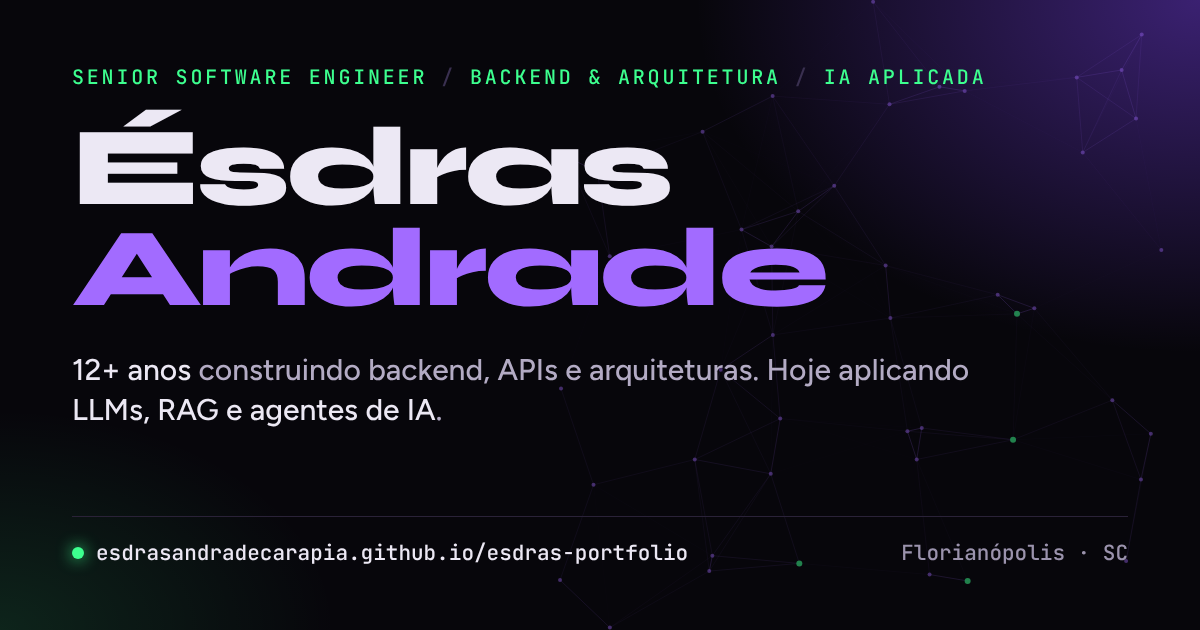
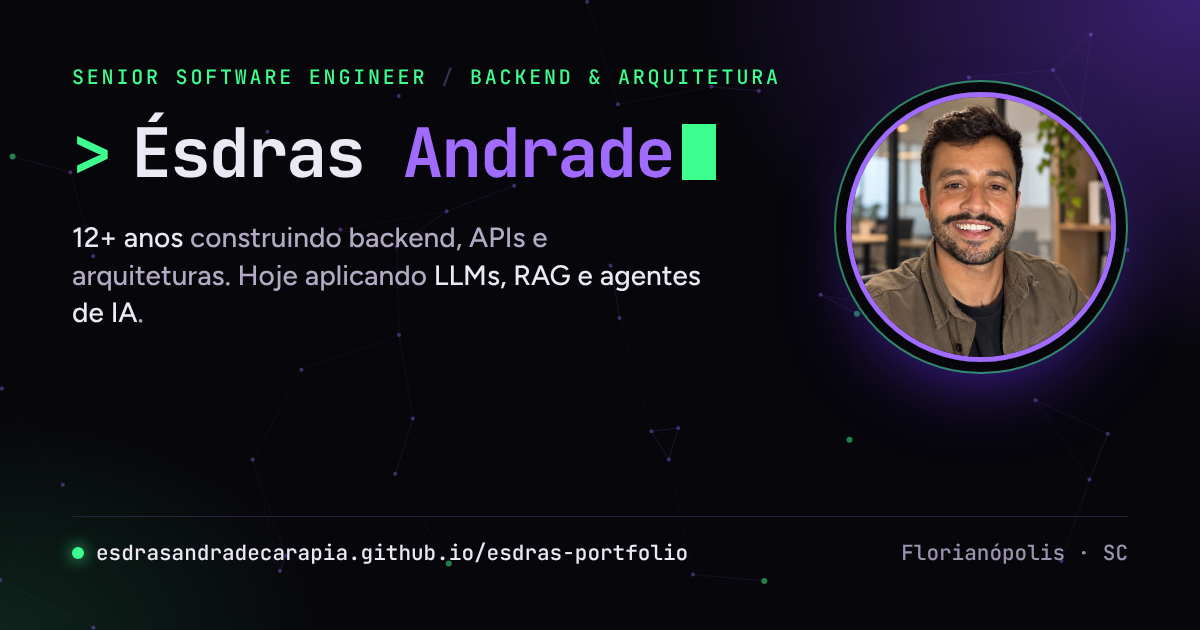
update-head-line-info-add-photo-profile

Changed region(s): [[0.0617, 0.0905, 0.9558, 0.6635], [0.0617, 0.1508, 0.6167, 0.3317], [0.0617, 0.6333, 0.37, 0.6937]]

diff --git a/index.html b/index.html
@@ -8,6 +8,10 @@
   <meta name="theme-color" content="#07060b">
 
   <!-- Open Graph: prévia do link no LinkedIn e WhatsApp -->
+  <meta property="og:type" content="website">
+  <meta property="og:title" content="Ésdras Andrade · Senior Software Engineer">
+  <meta property="og:description" content="Backend, APIs e arquitetura que aguentam produção, aplicando IA com LLMs, RAG e agentes.">
+  <meta property="og:locale" content="pt_BR">
   <meta property="og:url" content="https://esdrasandradecarapia.github.io/esdras-portfolio/">
   <meta property="og:image" content="https://esdrasandradecarapia.github.io/esdras-portfolio/assets/img/og-image.png">
   <meta property="og:image:width" content="1200">
@@ -18,7 +22,7 @@
   <link rel="icon" href="assets/img/favicon.svg" type="image/svg+xml">
   <link rel="preconnect" href="https://fonts.googleapis.com">
   <link rel="preconnect" href="https://fonts.gstatic.com" crossorigin>
-  <link rel="stylesheet" href="https://fonts.googleapis.com/css2?family=Syne:wght@500;700;800&family=Figtree:wght@400;500;600&family=JetBrains+Mono:wght@400;500&display=swap">
+  <link rel="stylesheet" href="https://fonts.googleapis.com/css2?family=Syne:wght@500;700;800&family=Figtree:wght@400;500;600&family=JetBrains+Mono:wght@400;500;700&display=swap">
   <link rel="stylesheet" href="assets/css/styles.css">
 
   <script src="assets/js/config.js" defer></script>
@@ -47,44 +51,33 @@
 <main class="wrap" id="topo">
 
   <header class="hero">
-    <div class="hero-title">
-      <div class="eyebrow"><span>Senior Software Engineer</span><span>Backend &amp; Arquitetura</span><span>IA aplicada</span></div>
-      <h1>Ésdras<span class="last">Andrade</span></h1>
-    </div>
+    <figure class="avatar">
+      <picture>
+        <source srcset="assets/img/esdras.webp" type="image/webp">
+        <img src="assets/img/esdras.jpg" alt="Foto de Ésdras Andrade" width="640" height="800" fetchpriority="high">
+      </picture>
+    </figure>
     <div class="hero-copy">
-      <p class="lead">Engenheiro de software com <strong>mais de 12 anos construindo backend, APIs e arquiteturas</strong> que aguentam produção, com experiência liderando times técnicos. Hoje aplico essa base em <strong>sistemas com LLMs, RAG e agentes de IA</strong>.</p>
+      <p class="role">Senior Software Engineer · Backend &amp; IA</p>
+      <h1><span class="prompt" aria-hidden="true">&gt;</span>Ésdras <span class="last">Andrade</span><span class="caret" aria-hidden="true"></span></h1>
+      <p class="lead">Mais de 12 anos construindo <strong>backend, APIs e arquiteturas</strong>. Hoje aplicando <strong>LLMs, RAG e agentes de IA</strong>.</p>
       <div class="cta">
         <a class="btn primary js-wa" href="#" target="_blank" rel="noopener">
           <svg viewBox="0 0 24 24" fill="currentColor" aria-hidden="true"><path d="M17.5 14.4c-.3-.1-1.7-.8-2-.9-.3-.1-.5-.1-.7.1l-.9 1.1c-.2.2-.3.2-.6.1-.3-.1-1.2-.5-2.3-1.4-.9-.8-1.4-1.7-1.6-2-.2-.3 0-.5.1-.6l.4-.5.3-.5v-.5l-.9-2.2c-.2-.6-.5-.5-.7-.5h-.6c-.2 0-.5.1-.8.4-.3.3-1 1-1 2.5s1.1 2.9 1.2 3.1c.1.2 2.1 3.2 5.1 4.5.7.3 1.3.5 1.7.6.7.2 1.4.2 1.9.1.6-.1 1.7-.7 2-1.4.2-.7.2-1.2.2-1.4-.1-.1-.3-.2-.6-.3zM12 2a10 10 0 0 0-8.6 15.1L2 22l5-1.3A10 10 0 1 0 12 2zm0 18.2c-1.5 0-3-.4-4.2-1.2l-.3-.2-3 .8.8-2.9-.2-.3A8.2 8.2 0 1 1 12 20.2z"/></svg>
           WhatsApp
         </a>
-        <a class="btn ghost-purple js-li" href="#" target="_blank" rel="noopener">
-          <svg viewBox="0 0 24 24" fill="currentColor" aria-hidden="true"><path d="M20.4 20.5h-3.6v-5.6c0-1.3 0-3-1.8-3s-2.1 1.4-2.1 2.9v5.7H9.3V9h3.4v1.6h.1c.5-.9 1.6-1.8 3.4-1.8 3.6 0 4.3 2.4 4.3 5.5v6.2zM5.3 7.4a2.1 2.1 0 1 1 0-4.2 2.1 2.1 0 0 1 0 4.2zM7.1 20.5H3.5V9h3.6v11.5zM22.2 0H1.8C.8 0 0 .8 0 1.7v20.6c0 .9.8 1.7 1.8 1.7h20.4c1 0 1.8-.8 1.8-1.7V1.7C24 .8 23.2 0 22.2 0z"/></svg>
-          LinkedIn
-        </a>
-        <a class="btn js-gh" href="#" target="_blank" rel="noopener">
-          <svg viewBox="0 0 24 24" fill="currentColor" aria-hidden="true"><path d="M12 .5a12 12 0 0 0-3.8 23.4c.6.1.8-.3.8-.6v-2.1c-3.3.7-4-1.6-4-1.6-.6-1.4-1.4-1.8-1.4-1.8-1.1-.7.1-.7.1-.7 1.2.1 1.8 1.2 1.8 1.2 1.1 1.8 2.8 1.3 3.5 1 .1-.8.4-1.3.8-1.6-2.7-.3-5.5-1.3-5.5-5.9 0-1.3.5-2.4 1.2-3.2-.1-.3-.5-1.5.1-3.2 0 0 1-.3 3.3 1.2a11.5 11.5 0 0 1 6 0C17.3 4.6 18.3 5 18.3 5c.7 1.7.2 2.9.1 3.2.8.8 1.2 1.9 1.2 3.2 0 4.6-2.8 5.6-5.5 5.9.4.4.8 1.1.8 2.2v3.3c0 .3.2.7.8.6A12 12 0 0 0 12 .5z"/></svg>
-          GitHub
-        </a>
         <a class="btn js-cv" href="assets/docs/Curriculo_Esdras_Andrade.pdf" target="_blank" rel="noopener" download>
           <svg viewBox="0 0 24 24" fill="none" stroke="currentColor" stroke-width="2" stroke-linecap="round" stroke-linejoin="round" aria-hidden="true"><path d="M12 3v12M7 10l5 5 5-5M5 21h14"/></svg>
-          Baixar CV (PDF)
+          Baixar CV
+        </a>
+        <a class="btn icon js-li" href="#" target="_blank" rel="noopener" aria-label="LinkedIn" title="LinkedIn">
+          <svg viewBox="0 0 24 24" fill="currentColor" aria-hidden="true"><path d="M20.4 20.5h-3.6v-5.6c0-1.3 0-3-1.8-3s-2.1 1.4-2.1 2.9v5.7H9.3V9h3.4v1.6h.1c.5-.9 1.6-1.8 3.4-1.8 3.6 0 4.3 2.4 4.3 5.5v6.2zM5.3 7.4a2.1 2.1 0 1 1 0-4.2 2.1 2.1 0 0 1 0 4.2zM7.1 20.5H3.5V9h3.6v11.5zM22.2 0H1.8C.8 0 0 .8 0 1.7v20.6c0 .9.8 1.7 1.8 1.7h20.4c1 0 1.8-.8 1.8-1.7V1.7C24 .8 23.2 0 22.2 0z"/></svg>
+        </a>
+        <a class="btn icon js-gh" href="#" target="_blank" rel="noopener" aria-label="GitHub" title="GitHub">
+          <svg viewBox="0 0 24 24" fill="currentColor" aria-hidden="true"><path d="M12 .5a12 12 0 0 0-3.8 23.4c.6.1.8-.3.8-.6v-2.1c-3.3.7-4-1.6-4-1.6-.6-1.4-1.4-1.8-1.4-1.8-1.1-.7.1-.7.1-.7 1.2.1 1.8 1.2 1.8 1.2 1.1 1.8 2.8 1.3 3.5 1 .1-.8.4-1.3.8-1.6-2.7-.3-5.5-1.3-5.5-5.9 0-1.3.5-2.4 1.2-3.2-.1-.3-.5-1.5.1-3.2 0 0 1-.3 3.3 1.2a11.5 11.5 0 0 1 6 0C17.3 4.6 18.3 5 18.3 5c.7 1.7.2 2.9.1 3.2.8.8 1.2 1.9 1.2 3.2 0 4.6-2.8 5.6-5.5 5.9.4.4.8 1.1.8 2.2v3.3c0 .3.2.7.8.6A12 12 0 0 0 12 .5z"/></svg>
         </a>
       </div>
     </div>
-
-    <figure class="trace" aria-label="Demonstração ilustrativa de um agente de IA do projeto Legal Case Intelligence" style="margin:0">
-      <div class="trace-head"><span>legal-case-intelligence · trace</span><span class="live"><i></i>demo</span></div>
-      <div class="trace-body">
-        <div class="q"><span class="dim">&gt;</span> "Quais cláusulas de multa existem no contrato do caso #214?"</div>
-        <div class="row"><span class="k">plan</span><span>classifica intenção → busca documental</span></div>
-        <div class="row"><span class="k">tool</span><span>search_documents(case=214, k=5)</span></div>
-        <div class="row"><span class="k">retrieve</span><span>3 chunks · pgvector · <span class="dim">41 ms</span></span></div>
-        <div class="row"><span class="k">rerank</span><span>score ≥ 0.78 · 2 evidências</span></div>
-        <div class="row"><span class="k">answer</span><span>2 cláusulas + citações [p.4, p.11]</span></div>
-        <div class="ok">✓ 1.284 tokens · US$ 0,004 · 1,8 s <span class="caret"></span></div>
-      </div>
-    </figure>
   </header>
 
   <div class="stats" aria-label="Números">
@@ -206,9 +199,18 @@
           <span class="status"><i></i>Em desenvolvimento</span>
           <h3>Legal Case Intelligence</h3>
           <p>O advogado cria um caso, envia petições, contratos e e-mails, e faz perguntas. O sistema responde com citações e evidências tiradas dos próprios documentos. Apoio à pesquisa jurídica, sem tomar decisões no lugar do advogado.</p>
-          <div class="pipeline" aria-label="Pipeline">
-            <span>upload</span><b>→</b><span>chunking</span><b>→</b><span>embeddings</span><b>→</b><span>pgvector</span><b>→</b><span>agente LangGraph</span><b>→</b><span>resposta + fontes</span>
-          </div>
+          <figure class="trace" aria-label="Demonstração ilustrativa de um agente de IA do projeto Legal Case Intelligence">
+            <div class="trace-head"><span>legal-case-intelligence · trace</span><span class="live"><i></i>demo</span></div>
+            <div class="trace-body">
+              <div class="q"><span class="dim">&gt;</span> "Quais cláusulas de multa existem no contrato do caso #214?"</div>
+              <div class="row"><span class="k">plan</span><span>classifica intenção → busca documental</span></div>
+              <div class="row"><span class="k">tool</span><span>search_documents(case=214, k=5)</span></div>
+              <div class="row"><span class="k">retrieve</span><span>3 chunks · pgvector · <span class="dim">41 ms</span></span></div>
+              <div class="row"><span class="k">rerank</span><span>score ≥ 0.78 · 2 evidências</span></div>
+              <div class="row"><span class="k">answer</span><span>2 cláusulas + citações [p.4, p.11]</span></div>
+              <div class="ok">✓ 1.284 tokens · US$ 0,004 · 1,8 s <span class="caret"></span></div>
+            </div>
+          </figure>
           <div class="chips"><span class="chip">Python 3.12</span><span class="chip">FastAPI</span><span class="chip">LangGraph</span><span class="chip">PostgreSQL + pgvector</span><span class="chip">Clean Architecture</span><span class="chip">pytest</span></div>
         </div>
         <span class="arrow" aria-hidden="true"><svg viewBox="0 0 24 24" fill="none" stroke="currentColor" stroke-width="2"><path d="M5 12h14M13 6l6 6-6 6"/></svg></span>

diff --git a/assets/css/styles.css b/assets/css/styles.css
@@ -1,5 +1,5 @@
 /* Estilos do portfólio. Cores e fontes ficam nos tokens do :root. */
-/* Layout: uma única coluna rolável; hero em duas colunas (tese + trace de agente), seções empilhadas com régua lateral em telas largas. */
+/* Layout: uma coluna rolável; topo com foto redonda + nome estilo terminal; seções empilhadas com régua lateral em telas largas. */
 :root{
   --bg:#07060b;            /* preto com leve viés roxo */
   --surface:#100d17;
@@ -11,6 +11,7 @@
   --purple-deep:#5b2bd6;
   --neon:#3dff8f;          /* verde fluorescente: sinais "vivos" */
   --font-display:"Syne","Arial Black",system-ui,sans-serif;
+  --font-name:var(--font-mono);   /* nome no topo: estilo terminal */
   --font-body:"Figtree",system-ui,-apple-system,"Segoe UI",sans-serif;
   --font-mono:"JetBrains Mono",ui-monospace,"SFMono-Regular",Consolas,monospace;
   --maxw:1160px;
@@ -51,19 +52,29 @@ a{color:inherit}
 @media (max-width:860px){.nav ul{display:none}}
 
 /* HERO */
-.hero{display:grid;grid-template-columns:1.2fr .8fr;gap:clamp(24px,4vw,56px);align-items:center;padding-block:clamp(48px,9vw,110px) clamp(40px,7vw,90px)}
+.hero{display:grid;grid-template-columns:auto 1fr;gap:clamp(24px,5vw,64px);align-items:center;max-width:960px;padding-block:clamp(56px,10vw,120px) clamp(44px,7vw,88px)}
 .hero > *{min-width:0}
-.eyebrow{font-family:var(--font-mono);font-size:12.5px;letter-spacing:.12em;text-transform:uppercase;color:var(--neon);display:flex;flex-wrap:wrap;gap:6px 14px}
-.eyebrow span+span::before{content:"/";color:var(--line);margin-right:14px}
-.hero{container-type:inline-size}
-.hero-title{grid-column:1/-1}
-h1{font-family:var(--font-display);font-weight:800;font-size:clamp(34px,8.6vw,124px);font-size:clamp(34px,8.6cqi,124px);line-height:.92;letter-spacing:-.035em;margin:18px 0 0;text-wrap:balance}
-h1 .last{display:block;color:transparent;-webkit-text-stroke:1.5px var(--purple);background:linear-gradient(90deg,var(--purple) 0 0) no-repeat 0 0/0% 100%;-webkit-background-clip:text;background-clip:text;animation:fill 1.6s .4s cubic-bezier(.6,0,.2,1) forwards}
-@keyframes fill{to{background-size:100% 100%}}
-.lead{font-size:clamp(17px,1.5vw,20px);color:var(--muted);max-width:56ch;margin:0 0 30px}
+.avatar{margin:0;width:clamp(128px,17vw,208px);aspect-ratio:1;border-radius:50%;overflow:hidden;border:3px solid var(--purple);box-shadow:0 0 0 6px var(--bg),0 0 0 7px rgba(61,255,143,.45),0 24px 60px -20px rgba(91,43,214,.8)}
+.avatar img{display:block;width:100%;height:100%;object-fit:cover;object-position:50% 30%}
+.role{font-family:var(--font-mono);font-size:13px;letter-spacing:.12em;text-transform:uppercase;color:var(--neon);margin:0}
+h1{font-family:var(--font-name);font-weight:700;font-size:clamp(32px,5vw,60px);line-height:1.1;letter-spacing:-.03em;margin:12px 0 16px;text-wrap:balance}
+h1 .prompt{color:var(--neon);margin-right:.35em}
+h1 .last{color:var(--purple)}
+h1 .caret{width:.5em;height:.85em;margin-left:.15em;vertical-align:-.05em}
+.btn.icon{padding:11px;width:44px;height:44px;justify-content:center}
+@media (max-width:640px){
+  .hero{grid-template-columns:1fr;gap:20px}
+  .avatar{width:112px}
+  .role{font-size:12px;letter-spacing:.08em}
+  .hero .cta{gap:8px}
+  .hero .btn{padding:10px 12px;font-size:14px}
+  .hero .btn.icon{width:40px;height:40px;padding:10px}
+}
+.lead{font-size:clamp(17px,1.5vw,20px);color:var(--muted);max-width:52ch;margin:0 0 28px}
 .lead strong{color:var(--fg);font-weight:600}
 .cta{display:flex;flex-wrap:wrap;gap:12px}
 
+.project .trace{margin:20px 0 0;box-shadow:none}
 .trace{background:linear-gradient(180deg,var(--surface-2),var(--surface));border:1px solid var(--line);border-radius:var(--radius);font-family:var(--font-mono);font-size:13px;line-height:1.75;overflow:hidden;box-shadow:0 30px 80px -30px rgba(91,43,214,.55)}
 .trace-head{display:flex;align-items:center;justify-content:space-between;gap:12px;padding:11px 16px;border-bottom:1px solid var(--line);color:var(--muted);font-size:12px}
 .trace-head .live{display:flex;align-items:center;gap:7px;color:var(--neon)}
@@ -190,7 +201,6 @@ section.block{padding-block:clamp(64px,9vw,120px)}
 footer{padding-block:40px 56px;color:var(--muted);font-size:13px;font-family:var(--font-mono);display:flex;flex-wrap:wrap;justify-content:space-between;gap:12px}
 
 @media (max-width:900px){
-  .hero{grid-template-columns:1fr}
   .stats{grid-template-columns:repeat(2,1fr)}
   .stat:nth-child(3){border-left:0;padding-left:0}
   .stat:nth-child(n+3){border-top:1px solid var(--line)}

diff --git a/README.md b/README.md
@@ -38,6 +38,7 @@ esdras-portfolio/
 │   │   └── Curriculo_Esdras_Andrade.pdf
 │   └── img/
 │       ├── favicon.svg
+│       ├── esdras.webp / .jpg  # Foto do topo (WebP com fallback JPG)
 │       └── og-image.png       # Prévia de links (1200×630)
 ├── docs/
 │   └── ARCHITECTURE.md        # Decisões técnicas do projeto
@@ -128,7 +129,7 @@ Configuração única no GitHub:
 ## Roadmap
 
 - [x] Imagem de prévia (Open Graph) para links no LinkedIn e WhatsApp
-- [ ] Foto no topo
+- [x] Foto de perfil no topo
 - [ ] Versão em inglês
 - [ ] Domínio próprio
 
